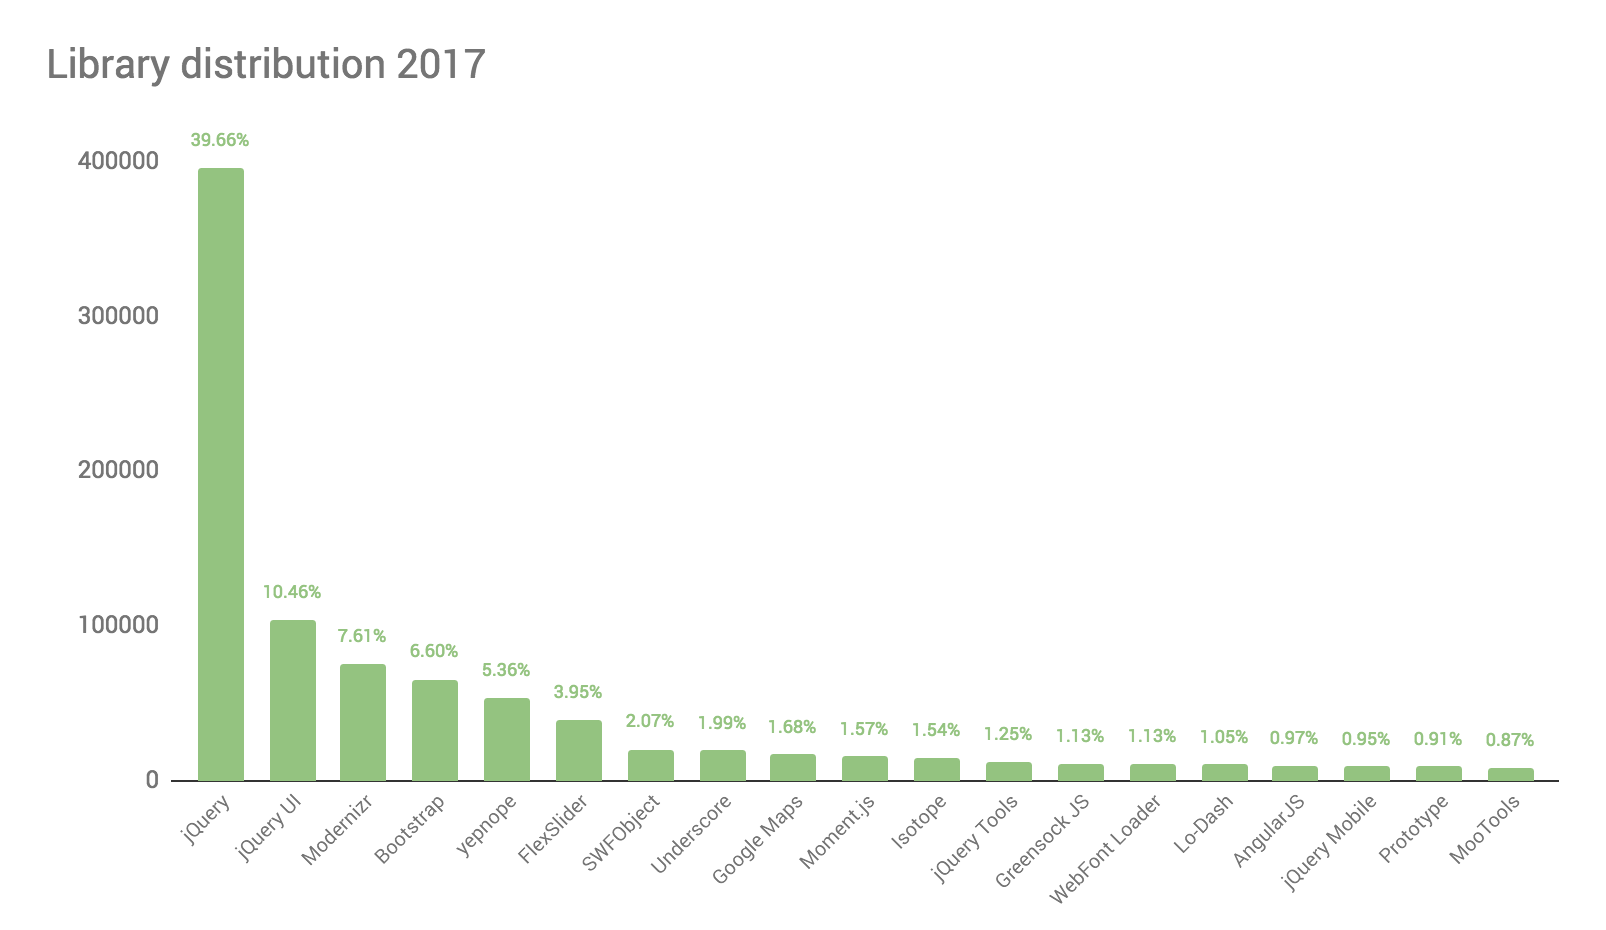
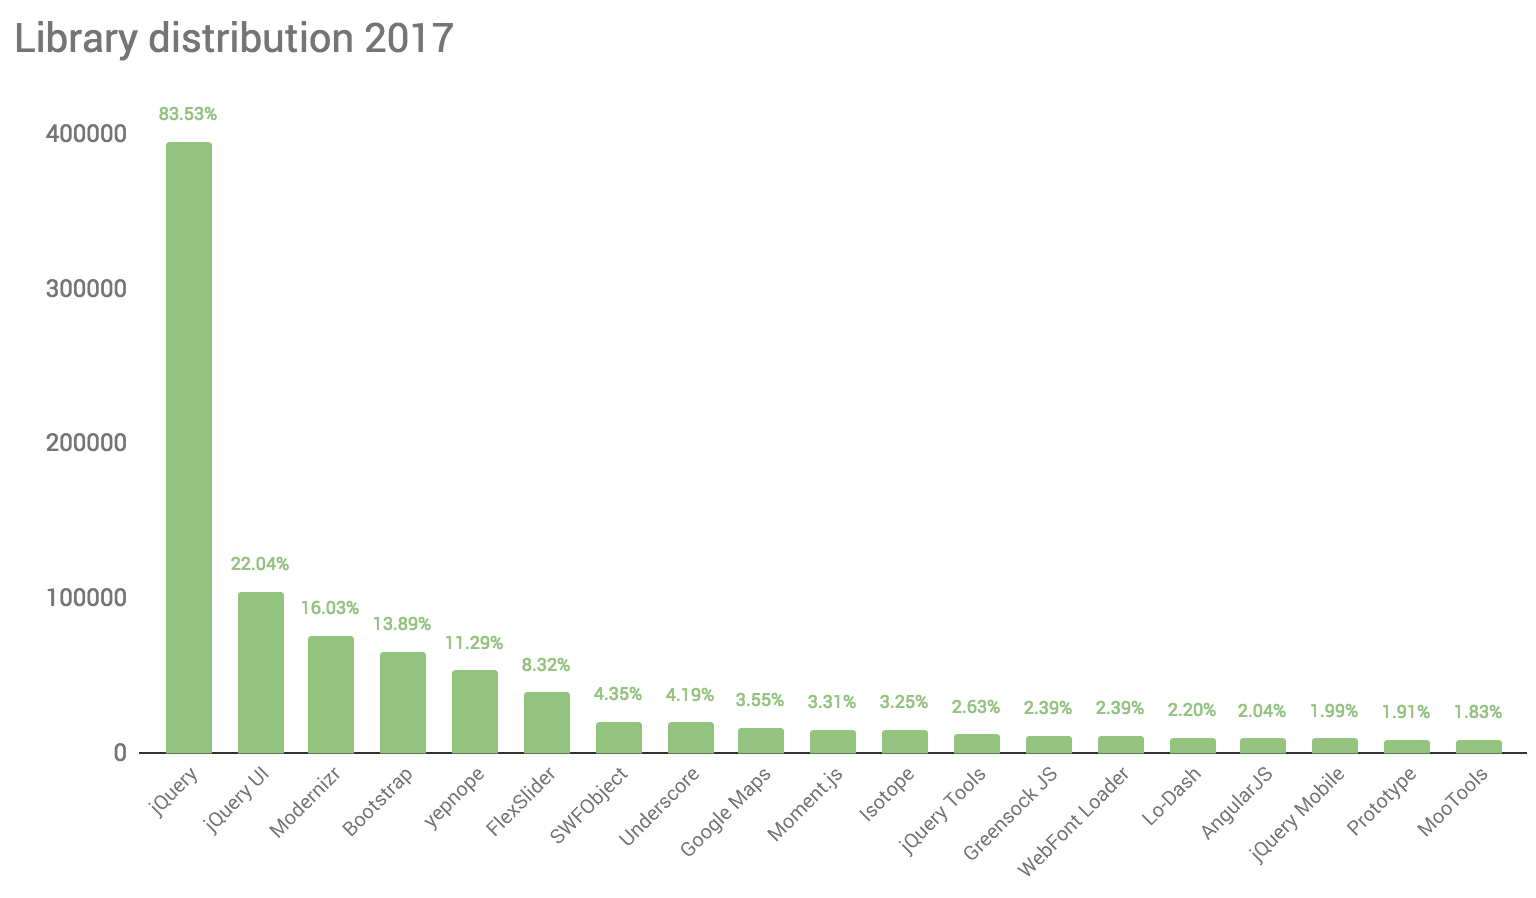
fix: jQuery stats based on unique pages

Changed region(s): [[0.0312, 0.1247, 1.0, 0.9666], [0.0, 0.0312, 0.3125, 0.0935]]

diff --git a/public/blog/is-jquery-still-relevant.md b/public/blog/is-jquery-still-relevant.md
@@ -46,8 +46,8 @@ below.
 ### JavaScript library distribution
 
 The chart below is a query from July 2017 aggregating the count of the library
-name over a total of 998,346 web sites collected. The chart shows that jQuery
-accounts for a massive 39% of libraries found on the web sites.
+name over a total of 474,058 unique URLs collected. The chart shows that jQuery
+accounts for a massive 83% of libraries found on the web sites.
 
 Reading through the next libraries, jQuery UI _requires_ jQuery, as does
 Bootstrap and FlexSlider. Modernizr isn't a "do thing" library, nor are many of
